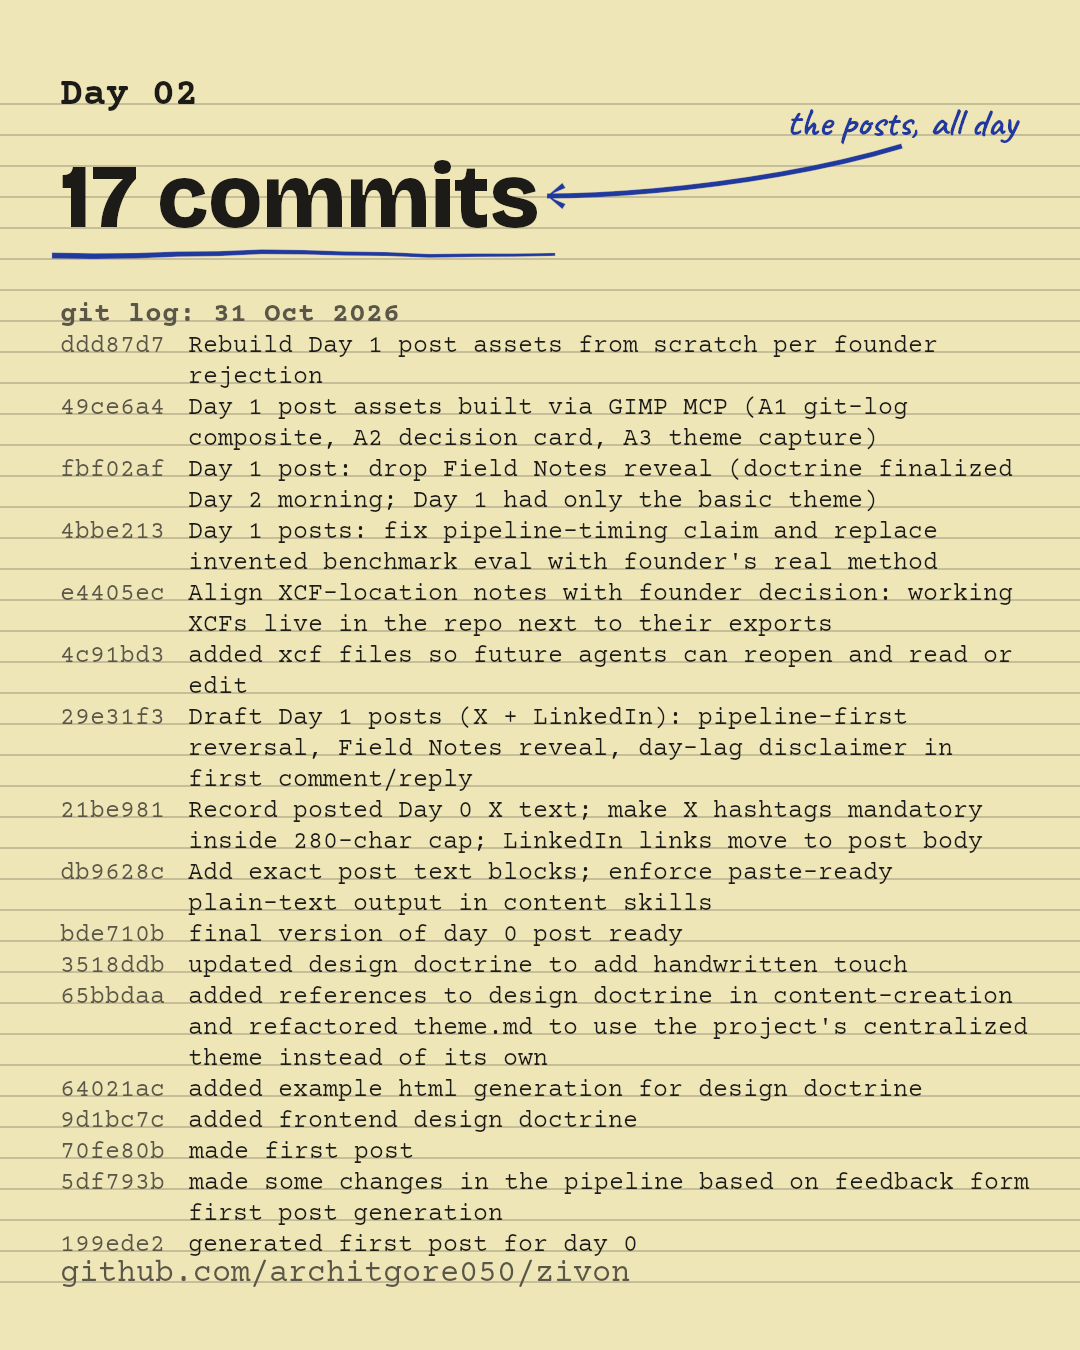
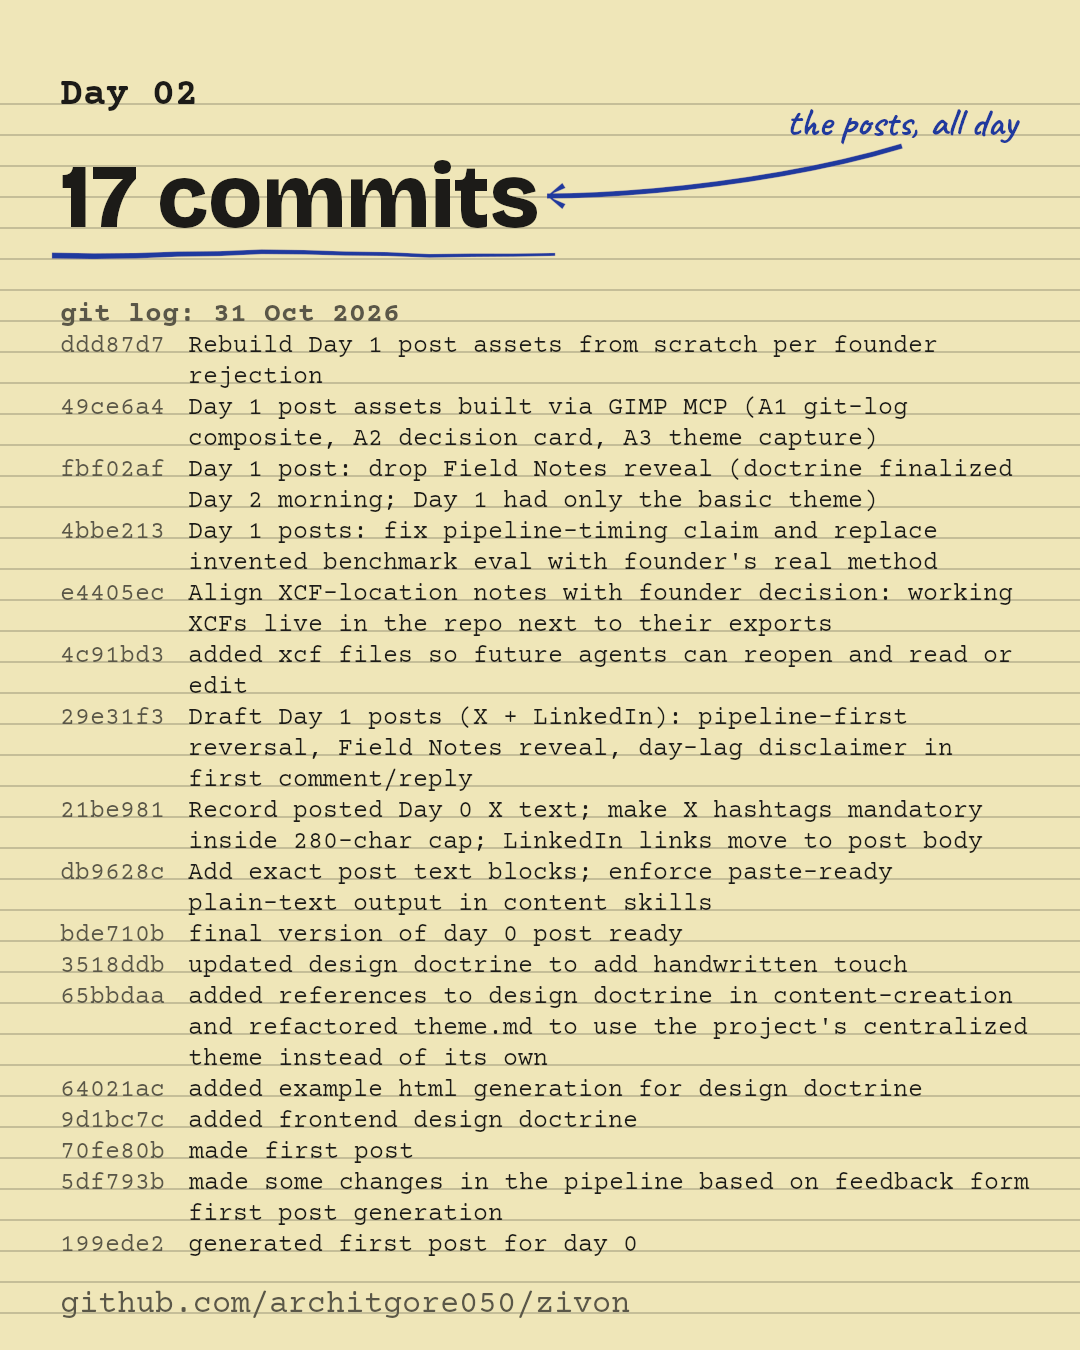
Day 2 hero: repo URL caption moved one blank rule below the log block (founder fix); asset re-exported, records updated

Changed region(s): [[0.0611, 0.9333, 0.5806, 0.9956]]

diff --git a/posts/2026-10-31-day-2.md b/posts/2026-10-31-day-2.md
@@ -230,7 +230,7 @@ export `posts/assets/day-2/day02_A1_git-log_1080x1350.png`):
 - All 17 commits typeset newest-first, 30 wrapped lines: Courier Prime 25px, 31px rule pitch, 56-char wrap
   (Day 1 was 26px/36px/54 — denser day, same right edge). Hash column graphite, messages ink, no separators;
   every baseline sits on a rule (rule phase 103 + 31k: counter 103, note 134, hook 227, header 320, log
-  351+31k, caption 1281). Pitch dropped 32→31px to make room for the underline sitting 0.5em below the hook.
+  351+31k, caption 1312). Pitch dropped 32→31px to make room for the underline sitting 0.3em below the hook.
 - Hook "17 commits" Bricolage Grotesque ExtraBold 90px with a **§4.1-generated pen underline**: 13 control
   points at 0.45em spacing, seeded jitter from the string "17 commits" (FNV-1a → mulberry32, matching the JS
   reference in `design-doctrine-example.html` bit-for-bit), sine wave 1.8px amplitude, 6→3px taper, overshoots
@@ -242,12 +242,14 @@ export `posts/assets/day-2/day02_A1_git-log_1080x1350.png`):
   note down toward the hook's line, curving into a **short horizontal run** whose head points left into the word
   (cubic bezier: start ~17° descent, horizontal tip tangent). Tip at the **right edge of "commits"**, mid-height.
   Barbs open backwards, ±32°/20px.
-- Graphite header "git log: 31 Oct 2026"; graphite caption repo URL bottom; `Day 02` counter top-left Courier
+- Graphite header "git log: 31 Oct 2026"; graphite caption repo URL on its own rule one blank line below the log
+  block (founder fix 1 Nov: the URL was cluttered against the last log line); `Day 02` counter top-left Courier
   Prime Bold 38. One pen-blue annotation pair only (underline + note + arrow).
 - QC: underline wave confirmed by per-column scan (1869 pen-blue px, band y 250–258); arrow 1690 pen-blue px,
   zero pure-white px in its bbox; clearances hook ink→underline 23px, underline→header 44px, arrow→underline
-  43px, hook ink→arrow tip 11px, counter→hook 50px, note→log 168px; rule luminance 187 vs paper 227 (doctrine
-  delta 40); 300px thumbnail + grayscale checks pass. Verdict: SHIP, pending founder review.
+  43px, hook ink→arrow tip 11px, counter→hook 50px, note→log 168px, last log line→caption 36px (blank rule
+  between), caption ink→bottom edge 33px; rule luminance 187 vs paper 227 (doctrine delta 40); 300px thumbnail
+  + grayscale checks pass. Verdict: SHIP, pending founder review.
 New GIMP lessons appended to skills/content-creation/tools.md.
 
 ---

diff --git a/skills/content-creation/tools.md b/skills/content-creation/tools.md
@@ -256,9 +256,10 @@ store: it records what we have learned about using these tools so every later ed
   symmetrically above and below the shaft. Verify with a zoomed crop of the EXPORT (PIL crop + NEAREST resize),
   not just the full frame.
 - 2026-11-01 (Day 2 git-log fit, final): 17 commits / 30 wrapped lines fit at **Courier Prime 25 px, 31 px rule
-  pitch, 56-char wrap** (Day 1: 26 px / 36 px / 54). Rule phase `y = 103 + 31k` (k=0..38) so counter (103), note
-  (134, top-right), hook (227), header (320), log baselines (351+31k) and caption (1281) all sit on rules. Pitch
-  dropped from 32 to 31 px to make room for the underline + header stack under the hook.
+  pitch, 56-char wrap** (Day 1: 26 px / 36 px / 54). Rule phase `y = 103 + 31k` (k=0..39) so counter (103), note
+  (134, top-right), hook (227), header (320), log baselines (351+31k) and caption (1312) all sit on rules. Pitch
+  dropped from 32 to 31 px to make room for the underline + header stack under the hook. Caption sits one blank
+  rule below the last log line (founder fix 1 Nov: a caption directly under dense log text reads as cluttered).
 - 2026-11-01 (text baselines): baseline = layer offset_y + font ascent; measured ascents: Courier Prime Bold 25
   → +19, 28 → +21, 32 → +25, 38 → +29; Bricolage Grotesque ExtraBold 90 → +84; Caveat Bold 40 → +38. Compute
   positions from baselines, not offsets.
